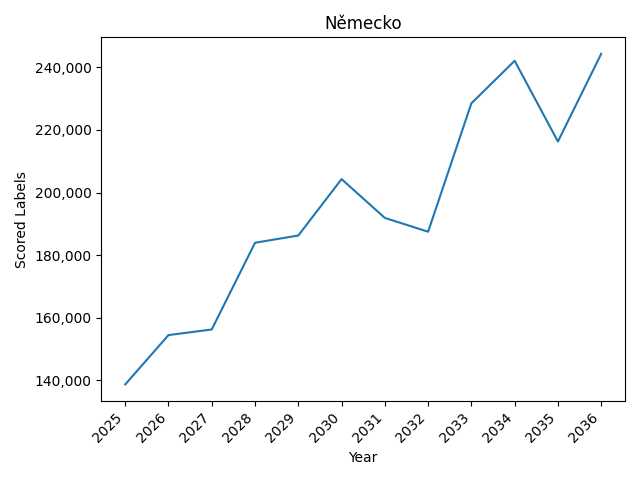
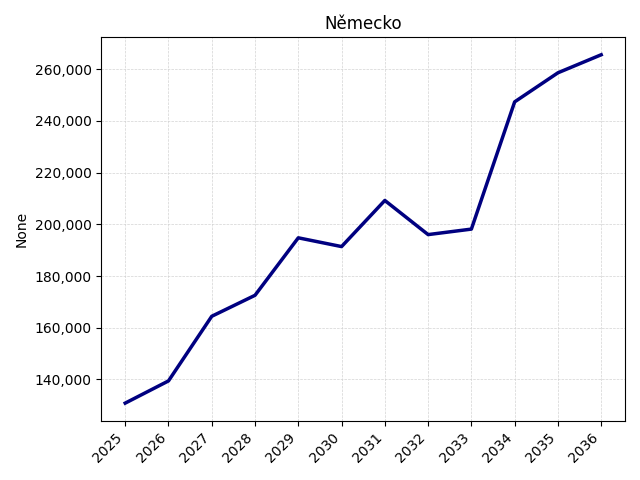
working and ready to deploy web application

diff --git a/templates/blog/base.html b/templates/blog/base.html
@@ -4,17 +4,17 @@
     <meta charset="UTF-8">
     <meta name="viewport" content="width=device-width, initial-scale=1.0">
     <title>{% block title %}Statistika Pro Všechny{% endblock %}</title>
-    {% load static %}    
+    {% load static %}
     <link rel="stylesheet" href="https://stackpath.bootstrapcdn.com/bootstrap/4.5.2/css/bootstrap.min.css">
     <link rel="stylesheet" href="{% static 'css/styles.css' %}">
+    <link rel="icon" href="{% static 'images/favicon.png' %}" type="image/x-icon">
     {% block extra_head %}{% endblock %}
-    <title></title>
 </head>
 <body>
     {% block navbar %}
     <nav class="navbar navbar-expand-lg navbar-light">
       <div class="container-fluid">
-          <a class="navbar-brand" href="{% url 'index' %}">Navbar</a>
+          <a class="navbar-brand" href="{% url 'index' %}"><img src="{% static 'images/favicon.png' %}" alt="Favicon"></a>
           <button class="navbar-toggler" type="button" data-bs-toggle="collapse" data-target="#navbarNav" aria-controls="navbarNav" aria-expanded="false" aria-label="Toggle navigation">
               <span class="navbar-toggler-icon"></span>
           </button>
@@ -31,29 +31,26 @@
                           <a class="nav-link" href="{% url 'blog:category' category.id %}">{{ category.name }}</a>
                       </li>
                   {% endfor %}
-                  
               </ul>
           </div>
       </div>
-  </nav>
+    </nav>
     {% endblock %}
-  <div class="container mt-4">
-      {% block content %}
-      {% endblock %}
-  </div>
 
-  {% block footer %}
-  <footer class="footer mt-auto py-3">
-      <div class="container text-center">
-          <span class="text-white">© 2023 My Blog. All rights reserved.</span>
-      </div>
-  </footer>
-  {% endblock %}
+    <div class="container mt-4">
+        {% block content %}{% endblock %}
+    </div>
 
-  {% block extra_js %}
-  {% endblock %}
-  <script src="https://code.jquery.com/jquery-3.5.1.slim.min.js"></script>
-  <script src="https://cdn.jsdelivr.net/npm/@popperjs/core@2.5.4/dist/umd/popper.min.js"></script>
-  <script src="https://stackpath.bootstrapcdn.com/bootstrap/4.5.2/js/bootstrap.min.js"></script>   
+    {% block footer %}
+    <footer class="footer mt-auto py-3">
+        <div class="container text-center">
+            <span class="text-white">© 2023 My Blog. All rights reserved.</span>
+        </div>
+    </footer>
+    {% endblock %}
+
+    <script src="https://code.jquery.com/jquery-3.5.1.slim.min.js"></script>
+    <script src="https://cdn.jsdelivr.net/npm/@popperjs/core@2.5.4/dist/umd/popper.min.js"></script>
+    <script src="https://stackpath.bootstrapcdn.com/bootstrap/4.5.2/js/bootstrap.min.js"></script>
 </body>
 </html>

diff --git a/static/css/styles.css b/static/css/styles.css
@@ -5,18 +5,27 @@ body {
 
 .navbar {
     background-color: #000080;
+    padding: 1.5rem 1rem; /* Increase padding for a bigger header */
 }
 
 .navbar .nav-link {
-    color: #FFFFFF;
+    color: #FFFFFF !important;
+    font-size: 1.25rem; /* Increase font size for nav links */
+}
+
+.navbar .navbar-brand {
+    color: #FFFFFF !important;
+    font-size: 1.5rem; /* Increase font size for brand */
 }
 
 .footer {
     background-color: #000080;
+    padding: 1.5rem 1rem; /* Increase padding for a bigger footer */
 }
 
 .footer .text-white {
     color: #FFFFFF;
+    font-size: 1.25rem; /* Increase font size for footer text */
 }
 
 .card {
@@ -35,4 +44,9 @@ body {
 .btn-primary:hover {
     background-color: #000066;
     border-color: #000066;
+}
+
+.badge-primary {
+    background-color: #000080;
+    color: #FFFFFF;
 }

diff --git a/templates/blog/article.html b/templates/blog/article.html
@@ -2,8 +2,15 @@
 {% block content %}
     <h1>{{ article.title }}</h1>
     <div>{{ article.content|safe }}</div>
+    <p><b>Category: </b>{{ article.category }}</p>
+    <p><b>Measurement Unit: </b>{{article.measurement_unit}}</p>
+    <p><b>Tags: </b>
+        {% for tag in article.tags.all %}
+            <span class="badge badge-primary">{{ tag.name }}</span>
+        {% endfor %}
+    </p>
 
-    <h2>Graph</h2>
+    <hr class="my-4" style="border-top: 3px solid #000;">
 
     {% if article.excel_file %}
     <div class="row mt-4">

diff --git a/templates/blog/article_list.html b/templates/blog/article_list.html
@@ -4,7 +4,7 @@
 
 <!-- TO DO: Don't display on id but on slug > add slugs -->
     {% if category %}
-        <h1 class="my-4">Articles for Category: {{ category.name }}</h1>
+        <h1 class="my-4">{{ category.name }}</h1>
     {% endif %}
     
     <div class="row">

diff --git a/blog/views.py b/blog/views.py
@@ -79,12 +79,14 @@ def check_row_and_years(request):
                     y_values = [result['Scored Labels'] * random.uniform(0.85, 1.05) for result in results]
                     plot_title = results[0]['Typ']
 
+                    navy_blue = '#000080' # Define the navy blue color
+                    line_width = 2.5 # Set the line width for the plot
+
                     # Generate the plot
                     fig, ax = plt.subplots()
-                    ax.plot(x_values, y_values)
+                    ax.plot(x_values, y_values, color=navy_blue, linewidth=line_width)
                     ax.set_title(plot_title)
-                    ax.set_xlabel('Year')
-                    ax.set_ylabel('Scored Labels')
+                    ax.set_ylabel(f'{article.measurement_unit}')
 
                     # Set x-axis ticks to the exact years
                     ax.set_xticks(x_values)
@@ -95,6 +97,9 @@ def check_row_and_years(request):
 
                     # Format y-axis labels to remove decimal values
                     ax.yaxis.set_major_formatter(plt.FuncFormatter(lambda x, _: f'{int(x):,}'))
+
+                    # Add grid lines
+                    ax.grid(True, which='both', linestyle='--', linewidth=0.5, color='lightgrey')
 
                     # Adjust layout to include all text
                     plt.tight_layout()
@@ -188,23 +193,26 @@ def plot_graph(request, id):
                 print(f"Plotting data for row: {selected_row}")
                 print(data.head())
 
+                navy_blue = '#000080' # Define the navy blue color
+                line_width = 2.5 # Set the line width for the plot
+
                 fig, ax = plt.subplots()
                 # Check if the first row contains numeric values
                 if pd.to_numeric(data.index, errors='coerce').notnull().all():
-                    data.plot(ax=ax)  # Use line plot if all values are numeric                 
+                    data.plot(ax=ax, color=navy_blue, linewidth=line_width)  # Use line plot if all values are numeric                 
                 else:
-                    data.plot(kind='bar', ax=ax)  # Use bar chart if any value is non-numeric
+                    data.plot(kind='bar', ax=ax, color=navy_blue, linewidth=line_width)  # Use bar chart if any value is non-numeric
 
-                #TODO: Put variables instead of hard-coded values depending on the table
-                ax.set_title(f'Row {selected_row} Data')
-                ax.set_xlabel('Column')
-                ax.set_ylabel('Value')
+                ax.set_title(f"{selected_row}")
+                ax.set_ylabel(F'{article.measurement_unit}')
 
                 # Add labels from the DataFrame
                 ax.set_xticks(range(len(data)))
                 ax.set_xticklabels(data.index, rotation=45, ha='right')
 
-                 # Adjust layout to include all text
+                ax.grid(True, which='both', linestyle='--', linewidth=0.5, color='lightgrey')
+
+                # Adjust layout to include all text
                 plt.tight_layout()
 
                 canvas = FigureCanvas(fig)

diff --git a/blog/models.py b/blog/models.py
@@ -29,10 +29,11 @@ class ExcelFile(models.Model):
 
 class Article(models.Model):
     title = models.CharField(max_length=100, unique=True)
-    perex = models.TextField(max_length=255, null=True, blank=True)
+    perex = models.TextField(max_length=255,default='')
     content = models.TextField()
     tags = models.ManyToManyField(Tag)
     category = models.ForeignKey(Category, on_delete=models.CASCADE)
+    measurement_unit = models.CharField(max_length=50, default='Number')
     excel_file = models.OneToOneField(ExcelFile, on_delete=models.CASCADE, null=True, blank=True)
     api_endpoint = models.OneToOneField(ApiEndpoint, on_delete=models.CASCADE, null=True, blank=True)
 

diff --git a/blog/migrations/0011_article_measurement_unit.py b/blog/migrations/0011_article_measurement_unit.py
@@ -1,0 +1,18 @@
+# Generated by Django 5.1.2 on 2024-12-28 15:23
+
+from django.db import migrations, models
+
+
+class Migration(migrations.Migration):
+
+    dependencies = [
+        ('blog', '0010_article_perex_alter_article_title'),
+    ]
+
+    operations = [
+        migrations.AddField(
+            model_name='article',
+            name='measurement_unit',
+            field=models.CharField(blank=True, max_length=50, null=True),
+        ),
+    ]
